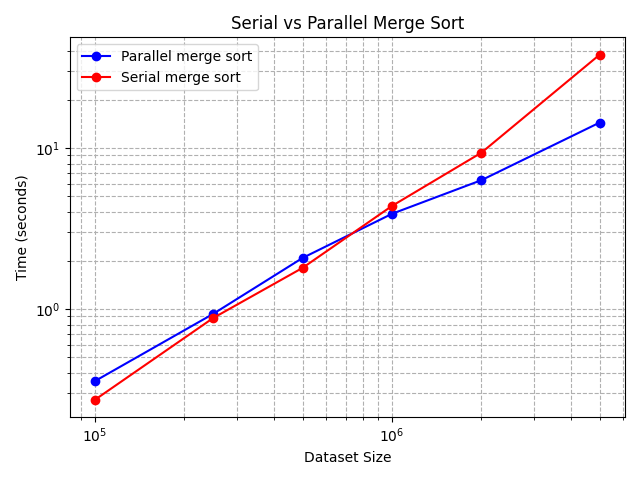
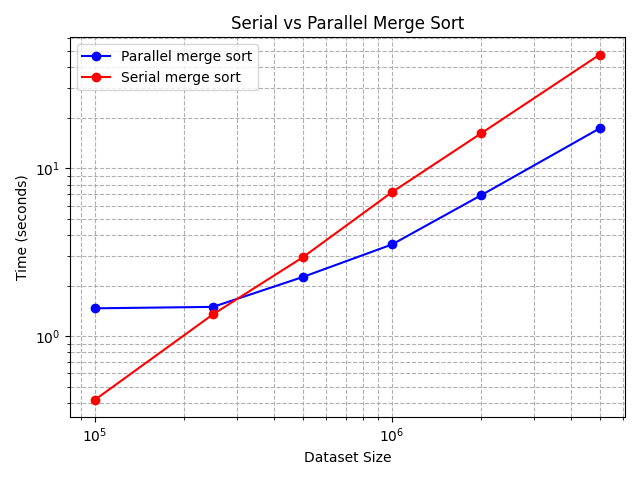
attempting to optimize problem 1

diff --git a/pset2/pset problem2 take 4.py b/pset2/pset problem2 take 4.py
@@ -49,6 +49,9 @@ def parallel_merge_sort(data, key, num_workers=None):
     if len(data) <= 1:
         return data
     
+    if len(data) < 500_00:
+        alg_new(data, key)
+    
     num_workers = num_workers or min(4, multiprocessing.cpu_count())
     chunks = chunkify(data, num_workers)
 
@@ -90,7 +93,7 @@ def plot_timings(n_values, all_parallel_times, all_serial_times):
     plt.legend()
     plt.grid(True, which="both", ls="--")
     plt.tight_layout()
-    plt.savefig('parallelization.png')
+    plt.savefig('parallelization_better.png')
     plt.show()
 
 # %% -----------------------------
